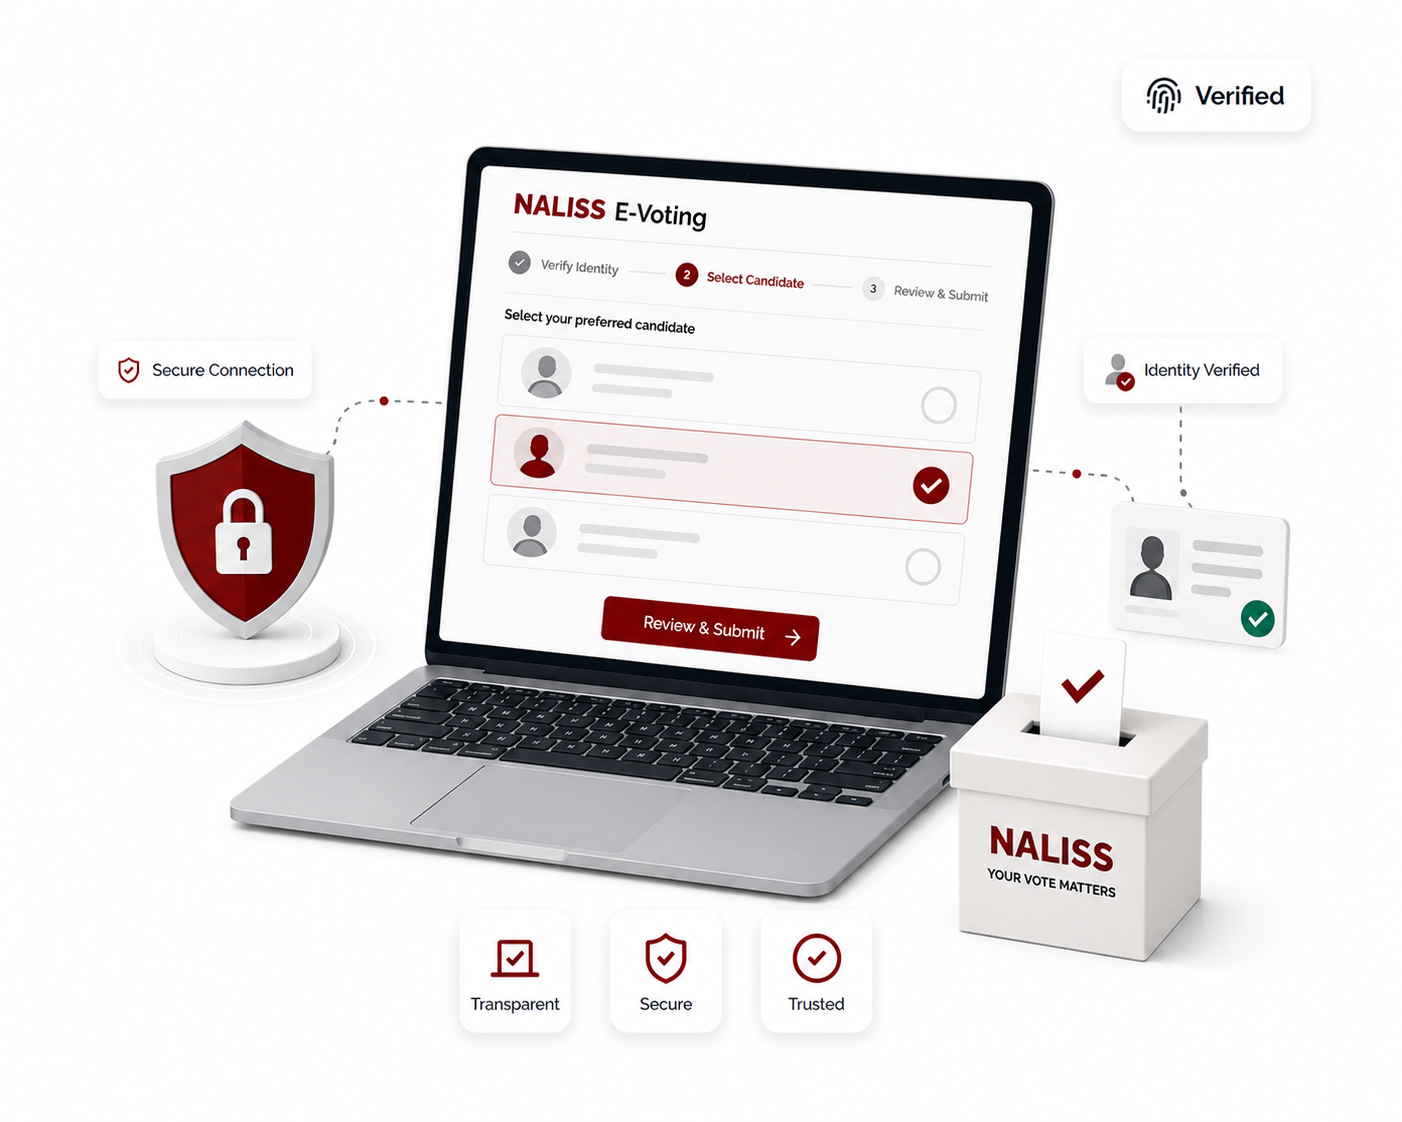
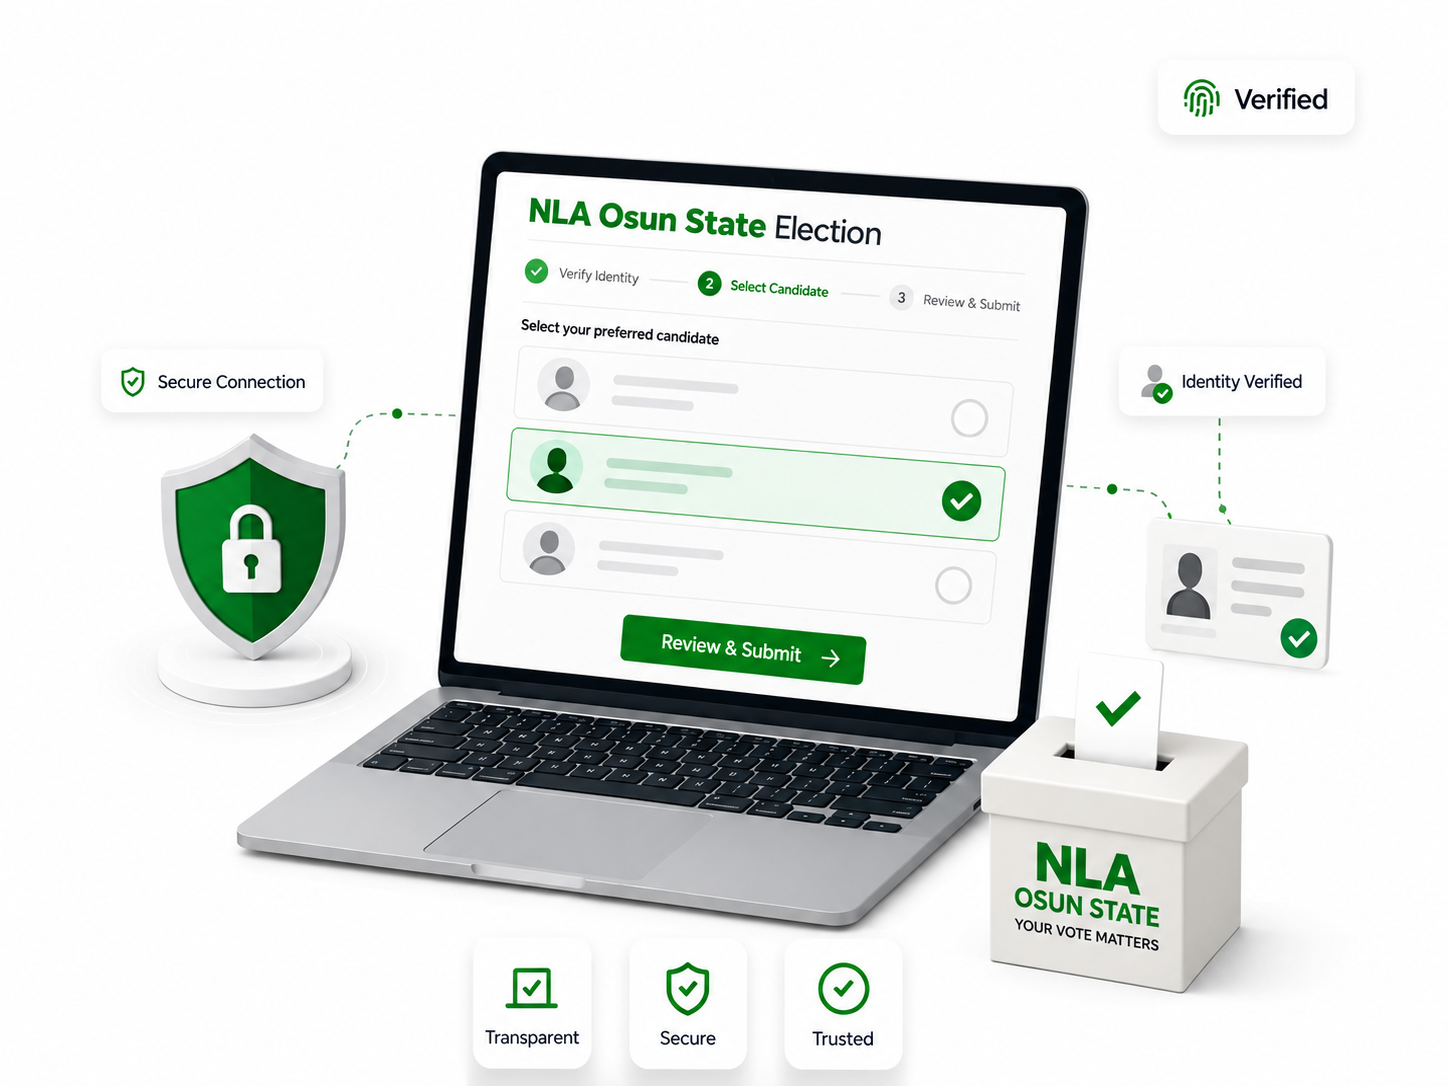
feat: implement error boundary for admin panel and enhance database retry logic

diff --git a/src/lib/db.ts b/src/lib/db.ts
@@ -41,24 +41,79 @@ export function isTransientDatabaseError(error: unknown) {
 // instead of waiting for the compute to come back.
 const RETRY_DELAYS_MS = [500, 1_500, 3_000, 6_000];
 
+// Upper bound for one attempt. A query that never settles would otherwise keep
+// the request open until Cloudflare cancels it as hung; this turns it into an
+// ordinary error the page or route handler can report.
+const ATTEMPT_TIMEOUT_MS = 20_000;
+
+// Set on an error once a retry loop has used up its attempts, so an outer
+// withDatabaseRetry wrapped around queries that the client extension already
+// retries rethrows it instead of multiplying the attempts (5 x 5 before).
+const retriesExhausted = Symbol.for("nla.db.retriesExhausted");
+
+export class DatabaseTimeoutError extends Error {
+  constructor() {
+    super(`Database operation did not complete within ${ATTEMPT_TIMEOUT_MS / 1000}s.`);
+    this.name = "DatabaseTimeoutError";
+  }
+}
+
+function markExhausted(error: unknown) {
+  if (error && typeof error === "object") {
+    try {
+      (error as Record<symbol, boolean>)[retriesExhausted] = true;
+    } catch {
+      // Frozen error objects cannot be tagged; the outer loop then retries once more.
+    }
+  }
+  return error;
+}
+
+function isExhausted(error: unknown) {
+  return !!error && typeof error === "object" && (error as Record<symbol, boolean>)[retriesExhausted] === true;
+}
+
+function withAttemptTimeout<T>(operation: () => Promise<T>) {
+  let timer: ReturnType<typeof setTimeout> | undefined;
+  const timeout = new Promise<never>((_, reject) => {
+    timer = setTimeout(() => reject(new DatabaseTimeoutError()), ATTEMPT_TIMEOUT_MS);
+  });
+  return Promise.race([operation(), timeout]).finally(() => clearTimeout(timer));
+}
+
+function logAttempt(attempt: number, error: unknown) {
+  // Temporary diagnostics for the Cloudflare cross-request investigation. Only
+  // the error class/code and a truncated message: never the connection string,
+  // query arguments, or anything from the request.
+  const value = (error ?? {}) as { name?: string; code?: string; message?: string };
+  console.warn(`Database connection is waking up; retrying (attempt ${attempt}).`, {
+    scope: currentRequestContext() ? "request" : "process",
+    attempt,
+    error: value.code ?? value.name,
+    message: value.message?.slice(0, 160),
+    timestamp: Date.now(),
+  });
+}
+
 /**
  * Neon suspends idle compute, so the first query after a pause can fail while the
  * branch wakes up. Retrying those connection-level failures keeps the admin panel
  * from reporting a configuration problem for what is really a cold start.
+ *
+ * Everything here lives in the caller's stack frame: each attempt calls
+ * `operation` afresh (so it runs against the current request's client), and no
+ * promise or timer is stored anywhere another request could reach it.
  */
-export async function withDatabaseRetry<T>(operation: () => Promise<T>) {
+export async function withDatabaseRetry<T>(operation: () => Promise<T>): Promise<T> {
   let lastError: unknown;
   for (let attempt = 0; attempt <= RETRY_DELAYS_MS.length; attempt += 1) {
     try {
-      return await operation();
+      return await withAttemptTimeout(operation);
     } catch (error) {
       lastError = error;
-      if (!isTransientDatabaseError(error) || attempt === RETRY_DELAYS_MS.length)
-        throw error;
-      console.warn(
-        `Database connection is waking up; retrying (attempt ${attempt + 1}).`,
-        error instanceof Error ? error.message : error,
-      );
+      if (isExhausted(error) || !isTransientDatabaseError(error)) throw error;
+      if (attempt === RETRY_DELAYS_MS.length) throw markExhausted(error);
+      logAttempt(attempt + 1, error);
       await new Promise(resolve => setTimeout(resolve, RETRY_DELAYS_MS[attempt]));
     }
   }
@@ -70,6 +125,10 @@ function createPrismaClient() {
   // which Cloudflare Workers cannot run. WebSockets (not Neon's HTTP mode) because
   // nomination submission and approval use interactive transactions, which the
   // HTTP driver does not support. Works unchanged under Node for local dev.
+  //
+  // PrismaNeon only holds the config; the Pool and its WebSockets are opened on
+  // the first query, inside whichever request makes it. That is why the client
+  // must never outlive the request on Workers (see `db` below).
   const adapter = new PrismaNeon({ connectionString: process.env.DATABASE_URL! });
   return new PrismaClient({ adapter }).$extends({
     query: {
@@ -80,11 +139,60 @@ function createPrismaClient() {
 
 type ExtendedPrismaClient = ReturnType<typeof createPrismaClient>;
 
-const globalForPrisma = globalThis as unknown as {
-  prisma?: ExtendedPrismaClient;
-};
+/**
+ * OpenNext runs every Worker request inside
+ * `AsyncLocalStorage.run({ env, ctx, cf }, …)` and exposes the store through this
+ * global symbol. The store is a new object per request, which makes it a safe
+ * key for per-request resources. It is undefined under `next dev`, `next build`
+ * and scripts, which run in Node where sharing a pool is fine.
+ */
+const cloudflareContextSymbol = Symbol.for("__cloudflare-context__");
 
-export const db: ExtendedPrismaClient =
-  globalForPrisma.prisma ?? createPrismaClient();
+function currentRequestContext(): object | undefined {
+  const store = (globalThis as Record<symbol, unknown>)[cloudflareContextSymbol];
+  return store && typeof store === "object" ? store : undefined;
+}
 
-if (process.env.NODE_ENV !== "production") globalForPrisma.prisma = db;
+// Workers: one client per request. The WeakMap holds nothing that a later
+// request can reach, and entries go away with the request's context object.
+const requestClients = new WeakMap<object, ExtendedPrismaClient>();
+
+// Node only (dev server, build, seed scripts): one client per process, kept on
+// globalThis so hot reloads do not open a new pool every edit.
+const globalForPrisma = globalThis as unknown as { prisma?: ExtendedPrismaClient };
+
+function isWorkersRuntime() {
+  return typeof navigator !== "undefined" && navigator.userAgent === "Cloudflare-Workers";
+}
+
+export function getDb(): ExtendedPrismaClient {
+  const context = currentRequestContext();
+  if (context) {
+    let client = requestClients.get(context);
+    if (!client) {
+      client = createPrismaClient();
+      requestClients.set(context, client);
+    }
+    return client;
+  }
+  if (isWorkersRuntime()) {
+    // Sharing a client here is exactly what caused "Cannot perform I/O on behalf
+    // of a different request", so fail loudly instead of falling back.
+    throw new Error("Database accessed outside a Cloudflare request context.");
+  }
+  return (globalForPrisma.prisma ??= createPrismaClient());
+}
+
+/**
+ * Kept as a stable import for the existing call sites. Every property access
+ * resolves the current request's client, so `db.voter.findMany()` in request A
+ * and request B run on separate pools even though both import the same `db`.
+ * Do not destructure or cache `db.<model>` in module scope.
+ */
+export const db = new Proxy({} as ExtendedPrismaClient, {
+  get(_target, property) {
+    const client = getDb();
+    const value = Reflect.get(client, property, client);
+    return typeof value === "function" ? value.bind(client) : value;
+  },
+});

diff --git a/src/lib/db.test.ts b/src/lib/db.test.ts
@@ -1,0 +1,73 @@
+import { afterEach, describe, expect, it, vi } from "vitest";
+import { getDb, withDatabaseRetry } from "./db";
+
+const contextSymbol = Symbol.for("__cloudflare-context__");
+const scope = globalThis as Record<symbol, unknown>;
+
+function inRequest<T>(store: object, run: () => T) {
+  scope[contextSymbol] = store;
+  try {
+    return run();
+  } finally {
+    delete scope[contextSymbol];
+  }
+}
+
+afterEach(() => {
+  delete scope[contextSymbol];
+  vi.useRealTimers();
+});
+
+describe("getDb", () => {
+  it("gives each Cloudflare request its own client and reuses it within the request", () => {
+    const a = {};
+    const b = {};
+    const first = inRequest(a, getDb);
+    expect(inRequest(a, getDb)).toBe(first);
+    expect(inRequest(b, getDb)).not.toBe(first);
+  });
+
+  it("never hands a request the process-wide client", () => {
+    const shared = getDb();
+    expect(inRequest({}, getDb)).not.toBe(shared);
+  });
+});
+
+describe("withDatabaseRetry", () => {
+  const transient = () => Object.assign(new Error("Connection terminated"), { code: "P1017" });
+
+  it("rethrows permanent errors without retrying", async () => {
+    const operation = vi.fn().mockRejectedValue(Object.assign(new Error("Unique"), { code: "P2002" }));
+    await expect(withDatabaseRetry(operation)).rejects.toThrow("Unique");
+    expect(operation).toHaveBeenCalledTimes(1);
+  });
+
+  it("retries transient errors until one succeeds", async () => {
+    vi.useFakeTimers();
+    vi.spyOn(console, "warn").mockImplementation(() => {});
+    const operation = vi.fn().mockRejectedValueOnce(transient()).mockResolvedValue("ok");
+    const result = withDatabaseRetry(operation);
+    await vi.runAllTimersAsync();
+    await expect(result).resolves.toBe("ok");
+    expect(operation).toHaveBeenCalledTimes(2);
+  });
+
+  it("does not multiply attempts when retries are nested", async () => {
+    vi.useFakeTimers();
+    vi.spyOn(console, "warn").mockImplementation(() => {});
+    const inner = vi.fn().mockRejectedValue(transient());
+    const result = withDatabaseRetry(() => withDatabaseRetry(inner));
+    const settled = expect(result).rejects.toThrow("Connection terminated");
+    await vi.runAllTimersAsync();
+    await settled;
+    expect(inner).toHaveBeenCalledTimes(5);
+  });
+
+  it("fails an attempt that never settles instead of hanging the request", async () => {
+    vi.useFakeTimers();
+    const result = withDatabaseRetry(() => new Promise(() => {}));
+    const settled = expect(result).rejects.toThrow("did not complete");
+    await vi.runAllTimersAsync();
+    await settled;
+  });
+});

diff --git a/src/lib/r2.ts b/src/lib/r2.ts
@@ -41,26 +41,27 @@ export function publicBaseUrl() {
   return required("R2_PUBLIC_BASE_URL").replace(/\/+$/, "");
 }
 
-let client: S3Client | undefined;
+// A new client per call rather than a module-level one: on Workers the SDK's
+// HTTP handler can hold a connection opened by an earlier request, which the
+// runtime refuses to reuse ("Cannot perform I/O on behalf of a different
+// request"). Construction is cheap and does no I/O.
 export function r2() {
-  if (!client)
-    client = new S3Client({
-      // R2 ignores the region but the SDK requires one.
-      region: "auto",
-      // From v3.729 the SDK adds a CRC32 checksum to every PutObject. When the
-      // request is presigned rather than sent, that checksum is computed over an
-      // empty body and frozen into the URL as x-amz-checksum-crc32=AAAAAA==, so
-      // R2 rejects the real upload. Only compute checksums where the API demands
-      // one; presigned PUTs then carry no checksum at all.
-      requestChecksumCalculation: "WHEN_REQUIRED",
-      responseChecksumValidation: "WHEN_REQUIRED",
-      endpoint: `https://${required("R2_ACCOUNT_ID")}.r2.cloudflarestorage.com`,
-      credentials: {
-        accessKeyId: required("R2_ACCESS_KEY_ID"),
-        secretAccessKey: required("R2_SECRET_ACCESS_KEY"),
-      },
-    });
-  return client;
+  return new S3Client({
+    // R2 ignores the region but the SDK requires one.
+    region: "auto",
+    // From v3.729 the SDK adds a CRC32 checksum to every PutObject. When the
+    // request is presigned rather than sent, that checksum is computed over an
+    // empty body and frozen into the URL as x-amz-checksum-crc32=AAAAAA==, so
+    // R2 rejects the real upload. Only compute checksums where the API demands
+    // one; presigned PUTs then carry no checksum at all.
+    requestChecksumCalculation: "WHEN_REQUIRED",
+    responseChecksumValidation: "WHEN_REQUIRED",
+    endpoint: `https://${required("R2_ACCOUNT_ID")}.r2.cloudflarestorage.com`,
+    credentials: {
+      accessKeyId: required("R2_ACCESS_KEY_ID"),
+      secretAccessKey: required("R2_SECRET_ACCESS_KEY"),
+    },
+  });
 }
 
 /**

diff --git a/src/app/api/admin/results/route.ts b/src/app/api/admin/results/route.ts
@@ -10,10 +10,15 @@ export async function PUT(request:Request){
   if(!await isAdminAuthenticated())return NextResponse.json({message:"Unauthorized"},{status:401});
   const parsed=schema.safeParse(await request.json().catch(()=>null));
   if(!parsed.success)return NextResponse.json({message:"Invalid result publication request."},{status:400});
-  const election=await db.election.findFirst({where:{status:"PUBLISHED"}});
-  if(!election)return NextResponse.json({message:"No published election was found."},{status:404});
-  if(parsed.data.publish&&election.closesAt>new Date())return NextResponse.json({message:"Results cannot be published before voting closes."},{status:409});
-  const updated=await db.election.update({where:{id:election.id},data:{resultsPublishedAt:parsed.data.publish?new Date():null}});
-  revalidatePath("/results");revalidatePath("/admin/results");revalidatePath("/");
-  return NextResponse.json({published:Boolean(updated.resultsPublishedAt),publishedAt:updated.resultsPublishedAt});
+  try{
+    const election=await db.election.findFirst({where:{status:"PUBLISHED"}});
+    if(!election)return NextResponse.json({message:"No published election was found."},{status:404});
+    if(parsed.data.publish&&election.closesAt>new Date())return NextResponse.json({message:"Results cannot be published before voting closes."},{status:409});
+    const updated=await db.election.update({where:{id:election.id},data:{resultsPublishedAt:parsed.data.publish?new Date():null}});
+    revalidatePath("/results");revalidatePath("/admin/results");revalidatePath("/");
+    return NextResponse.json({published:Boolean(updated.resultsPublishedAt),publishedAt:updated.resultsPublishedAt});
+  }catch(error){
+    console.error("[admin/results] publish failed",error instanceof Error?error.name:"unknown");
+    return NextResponse.json({message:"The election database could not be reached. Please try again."},{status:503});
+  }
 }

diff --git a/src/app/admin/(panel)/error.tsx b/src/app/admin/(panel)/error.tsx
@@ -1,0 +1,18 @@
+"use client";
+
+import { useEffect } from "react";
+
+// Without a boundary, a failed database read in any admin page (for example
+// while Neon is resuming) fell through to Next's generic "This page couldn't
+// load" screen. This keeps the admin shell and offers a retry instead.
+export default function AdminPanelError({ error, retry }: { error: Error & { digest?: string }; retry: () => void }) {
+  useEffect(() => {
+    console.error("[admin] page failed to render", error.digest ?? error.name);
+  }, [error]);
+
+  return <div className="admin-content">
+    <h1>This page is temporarily unavailable</h1>
+    <p>The election database could not be reached. Please wait a moment and try again.</p>
+    <button type="button" className="button" onClick={() => retry()}>Try again</button>
+  </div>;
+}
